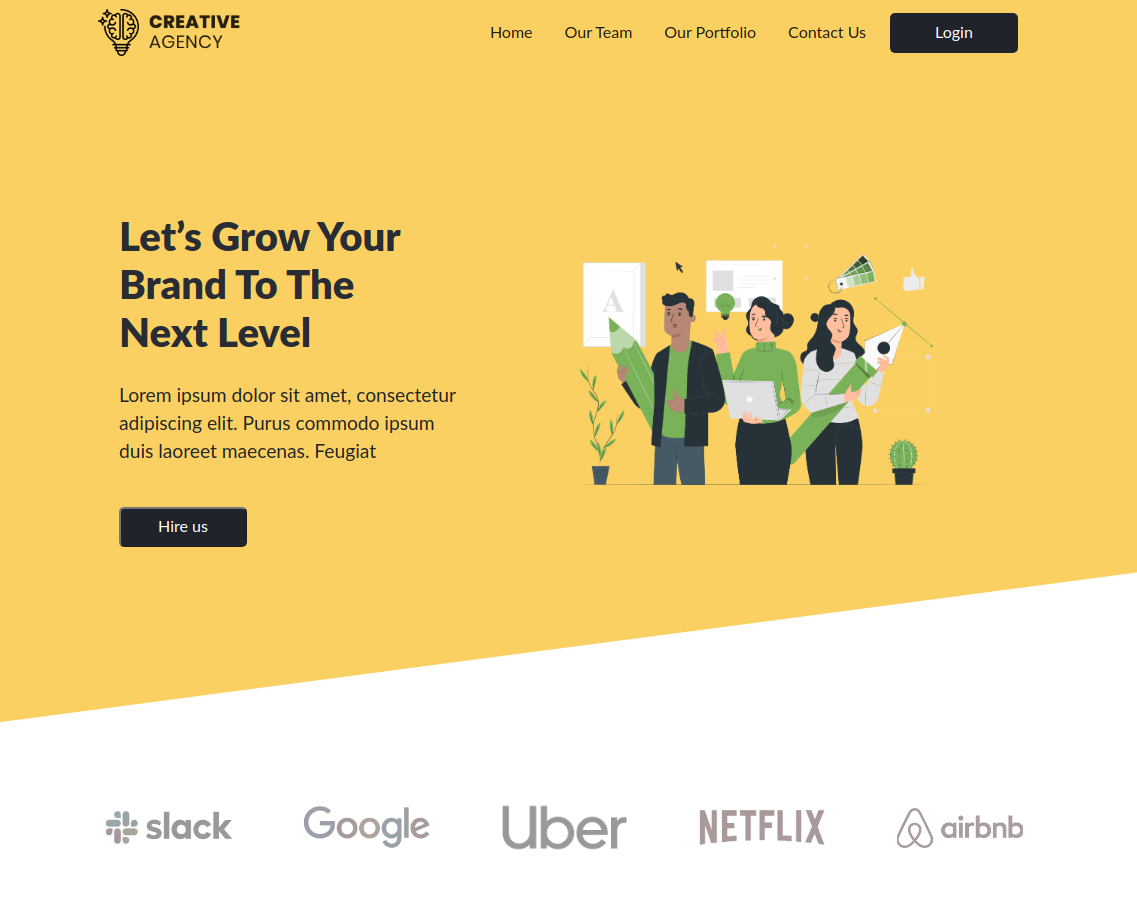
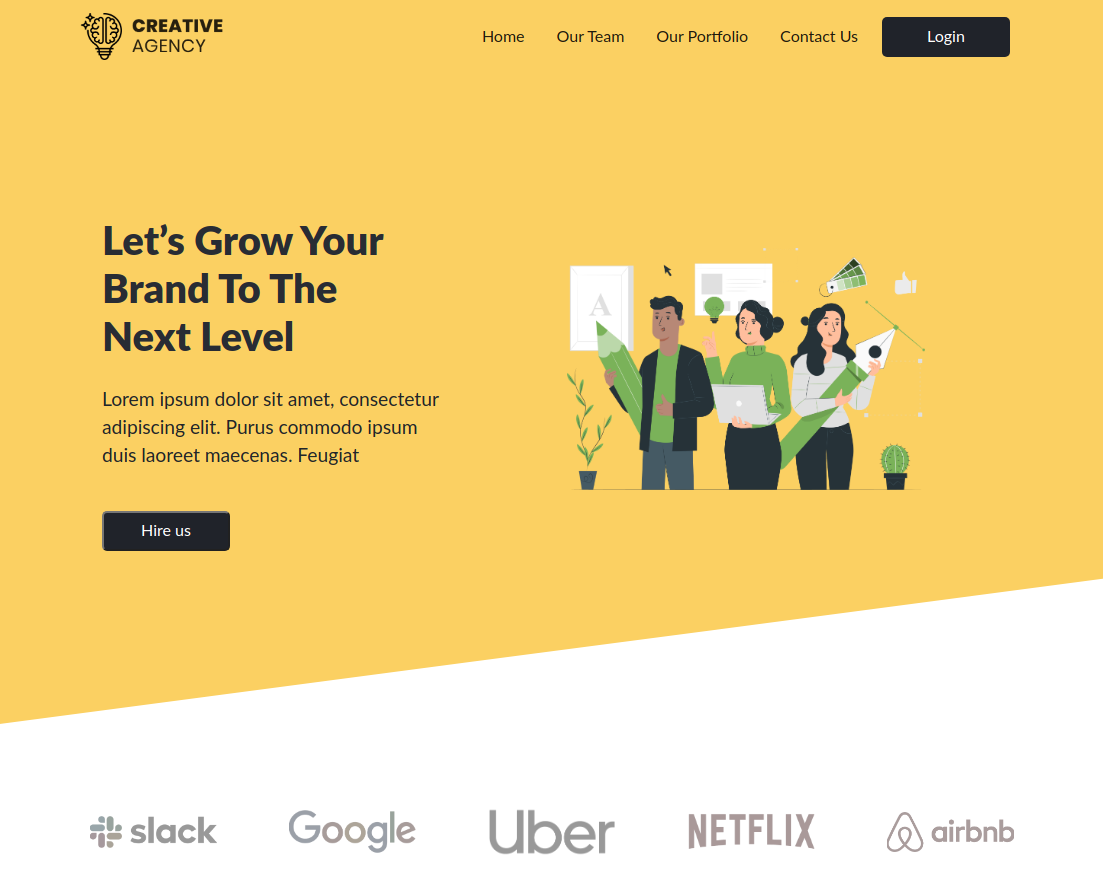
responsive design

diff --git a/src/components/Shared/Navbar.js b/src/components/Shared/Navbar.js
@@ -24,7 +24,7 @@ const Navbar = () => {
     }
     return (
         <div  className={`navbar-container ${navbarClasses.join(" ")}`} >
-            <nav  className="navbar navbar-expand-md  navbar-wrap ">
+            <nav  className="navbar navbar-expand-md  navbar-wrap "  style={{maxWidth: "1500px",margin: "auto"}}>
                 <Link style={{textDecoration:"none"}}  to="/"><a className="navbar-brand brand-name" href="home"> Mainul Islam</a> </Link>
                 <button className="navbar-toggler " type="button" data-toggle="collapse" data-target="#navbarNav" aria-controls="navbarNav" aria-expanded="false" aria-label="Toggle navigation">
                     <span className="navbar-toggler-icon toggle-btn-color "></span>

diff --git a/src/components/Home/Testimonials/Testimonials.js b/src/components/Home/Testimonials/Testimonials.js
@@ -16,7 +16,7 @@ const Testimonials = () => {
     return (
         <section id="testimonials">
             <div className="container-fluid text-container">
-                <div className="row">
+                <div className="row"  style={{maxWidth: "1300px",margin: "auto"}}>
                     <div className="col-md-2 header-col">
                         <h1> <FormatQuoteIcon className="quote-icon" /><span> Client Testimonials </span></h1>
                     </div>

diff --git a/src/components/Home/Portfolio/Portfolio.js b/src/components/Home/Portfolio/Portfolio.js
@@ -26,7 +26,7 @@ const Portfolio = () => {
         })
     return (
         <section id="portfolio" className="container-fluid">
-            <div className="row projects">
+            <div className="row projects" style={{maxWidth: "1300px",margin: "auto"}}>
                 <div className="col-md-12 collapseed">
                 <h1 className="" > <span> projects </span></h1>
                     <h1> Check Out Some of MY projects </h1>

diff --git a/src/components/Home/Portfolio/Portfolio.css b/src/components/Home/Portfolio/Portfolio.css
@@ -48,7 +48,8 @@
 
 .portfolio-item .item-wrap img{
     vertical-align: bottom;
-    width: 100%
+    width: 100%;
+    height: 100%;
 }
 
 .portfolio-item .item-wrap .overlay{
